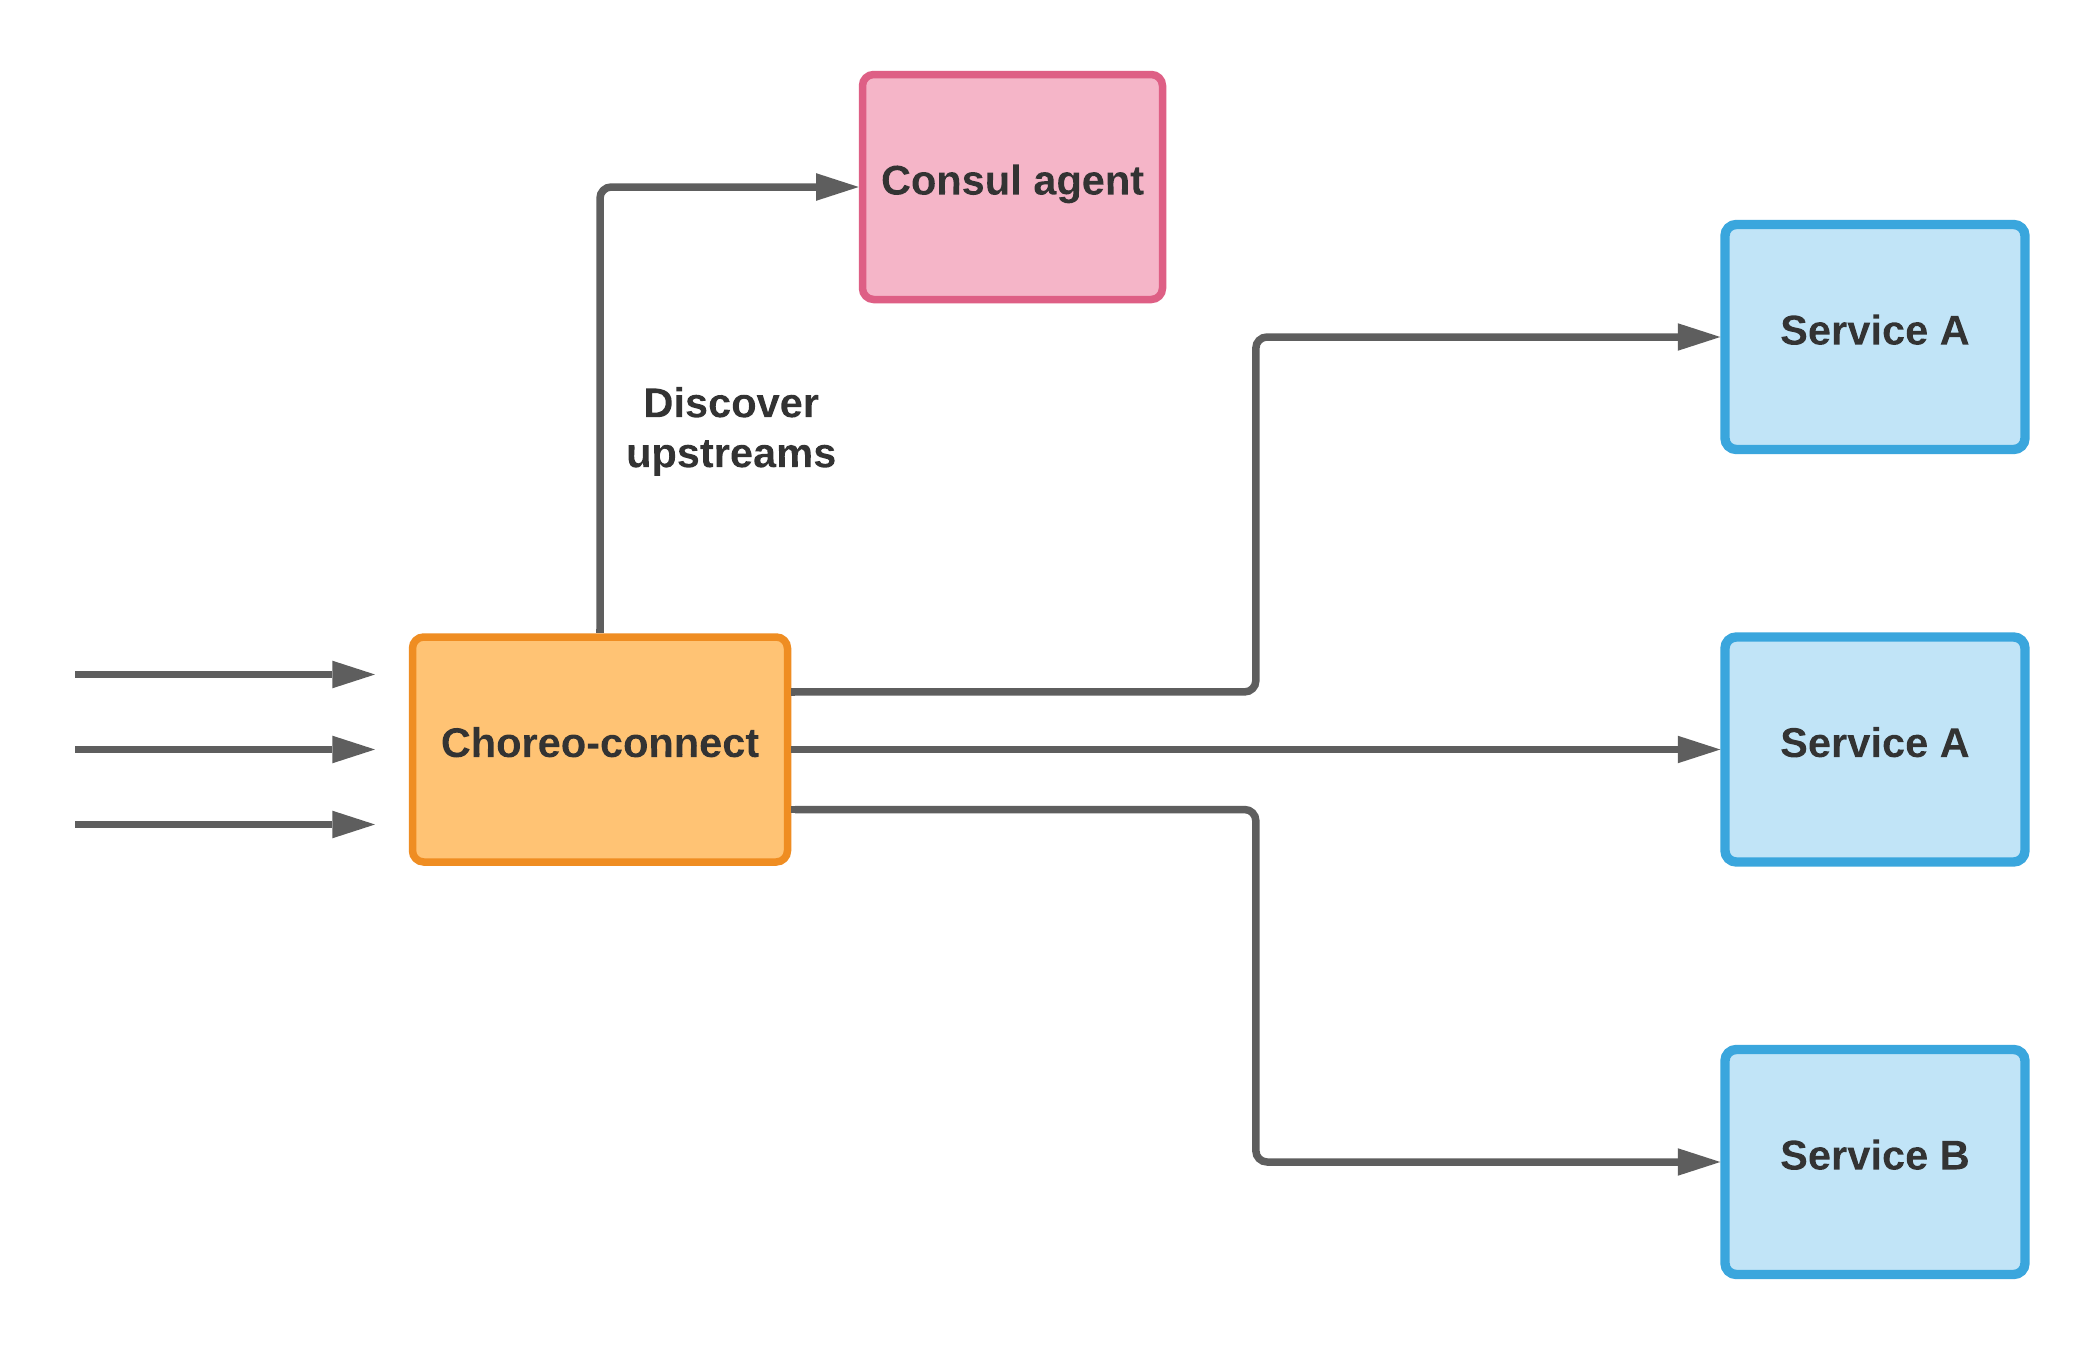
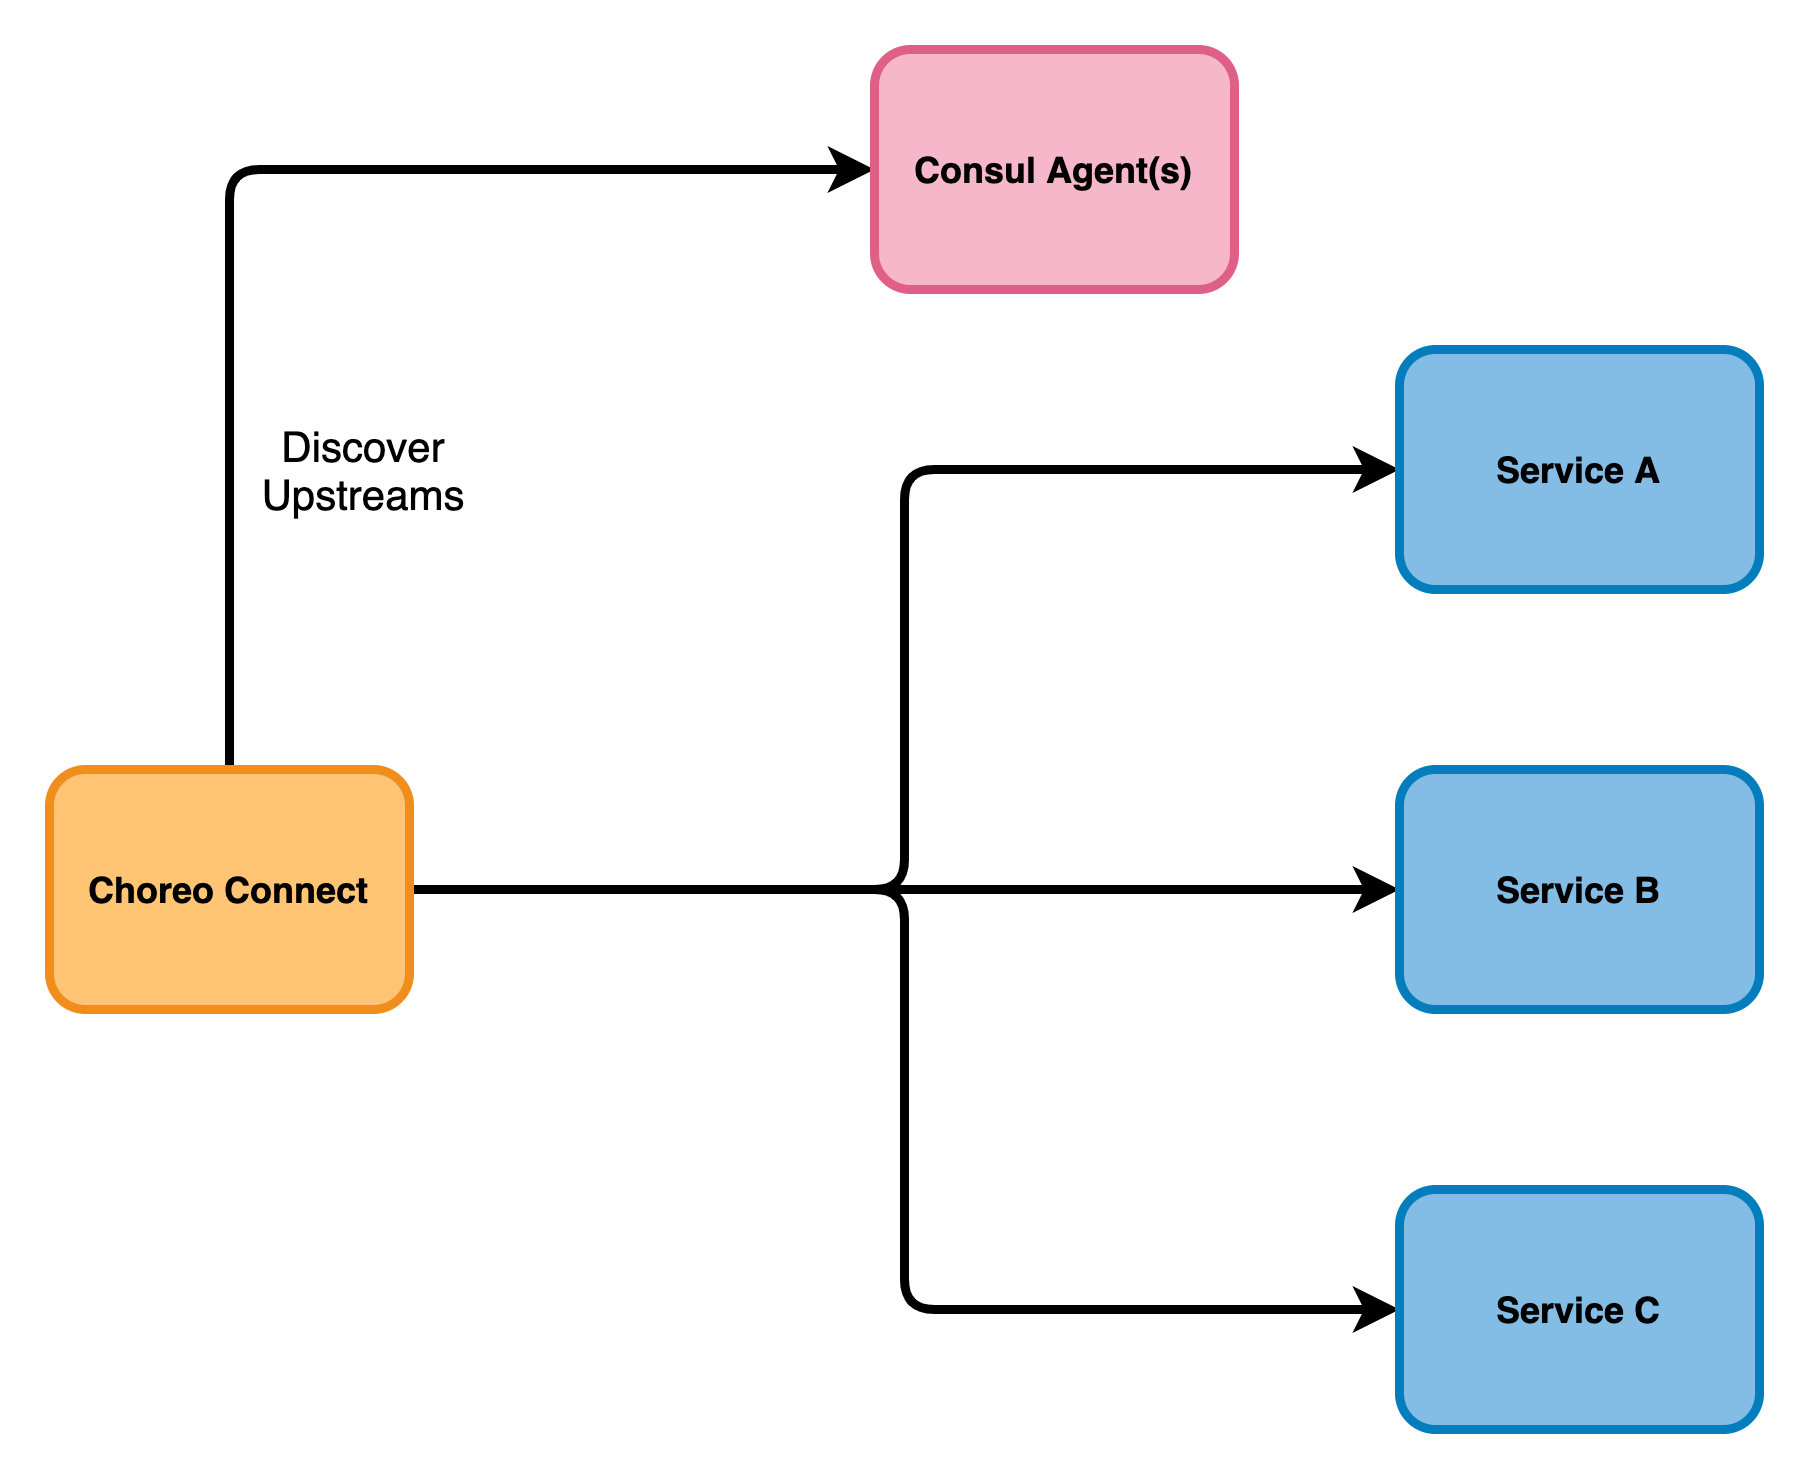
Updating service discovery docs

Changed region(s): [[0.0, 0.0311, 0.9906, 0.9956]]

diff --git a/en/docs/deploy-and-publish/deploy-on-gateway/choreo-connect/service-discovery/choreo-connect-and-k8s.md b/en/docs/deploy-and-publish/deploy-on-gateway/choreo-connect/service-discovery/choreo-connect-and-k8s.md
@@ -11,33 +11,13 @@ Example:
 ## Step 1 - Deploy Consul on K8s
 Deploy Consul using the [official Helm Chart](https://helm.releases.hashicorp.com/).<br>
 For more instructions, see the [Consul official documentation](https://www.consul.io/docs/k8s).
-## Step 2 - Modify Choreo Connect k8s artifacts 
-Add the `'consul.hashicorp.com/connect-inject': 'true'` annotation to the Adapter's deployment specification (adapter-deployment.yaml in k8s-artifacts directory). 
-```yaml
-apiVersion: apps/v1
-kind: Deployment
-metadata:
-  name: choreo-connect-adapter
-spec:
-  replicas: 1
-  selector:
-    matchLabels:
-      app: choreo-connect-adapter
-  template:
-    metadata:
-      labels:
-        app: choreo-connect-adapter
-      annotations:
-        'consul.hashicorp.com/connect-inject': 'true'
-```
-In the config-toml-configmap.yaml file, go to the \[adapter.consul] section and update the `url` with the IP address of the Kubernetes node.
-<!-- TODO  How to find the node-ip? -->
-<!-- TODO  How to find the acl token? -->
-<!-- TODO  How to find the initial certs? -->
+## Step 2 - Configure Choreo Connect
+
+In the config-toml-configmap.yaml file, go to the \[adapter.consul] section and update the configurations.
 ```
 [adapter.consul]
   enable = true
-  url = "http://<node-ip>:8500"
+  url = "http://consul-server:8500"
   pollInterval = 5
   aclToken = "d3a2a719-4221-8c65-5212-58d4727427ac"
   mgwServiceName = "choreo-connect"
@@ -46,7 +26,17 @@ In the config-toml-configmap.yaml file, go to the \[adapter.consul] section and 
   certFile = "/home/wso2/security/truststore/consul/local-dc-client-consul-0.pem"
   keyFile = "/home/wso2/security/truststore/consul/local-dc-client-consul-0-key.pem"
 ```
-Apply the k8s artifacts for Choreo Connect.
+
+<ol>
+<li> Change the `url` to the URL of the Consul agent you want to connect to.<br></li>
+<li>Change the `aclToken` to the token you generated from the previous step.<br></li> 
+<li>`serviceMeshEnabled` should be set to `true`.<br></li>
+<li>Configure `mgwServiceName` as choreo-connect.<br></li>
+<li>Add the `caCertFile`, `certFile`, and `keyFile` you generated from the previous step.<br></li>
+<li>Apply the K8s artifacts for Choreo Connect.</li>
+</ol>
+
+
 
 ## Step 3 - Deploy the API
 Deploy WSO2 API Manger on Kubernetes.<br>

diff --git a/en/docs/deploy-and-publish/deploy-on-gateway/choreo-connect/service-discovery/service-discovery-overview.md b/en/docs/deploy-and-publish/deploy-on-gateway/choreo-connect/service-discovery/service-discovery-overview.md
@@ -68,7 +68,7 @@ consul(<service_name>,<default_host>)
 ```
 
 ```java tab="Example"
-consul(pet,https://10.10.1.5:5000)'
+consul(pet,https://10.10.1.5:5000)
 ```
 
 Example 2:<br>
